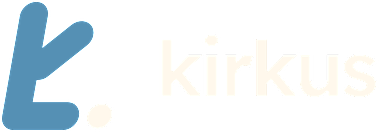
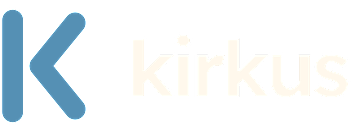
New mark: a geometric K (stem + chevron), no dot
Replaces the hand-drawn K everywhere: GRUB, boot splash, login screen, Plasma
splash, live USB, app/launcher icon, wallpaper and fastfetch. The mark is
now an SVG with two layers; the chevron pulses on the boot and Plasma
splashes where the dot used to breathe.

Claude-Session: https://claude.ai/code/session_01L5eKN7UTBKTLGMDgDJHDBu

Changed region(s): [[0.0, 0.0, 0.2486, 1.0]]

diff --git a/overlay/installed/usr/share/plasma/look-and-feel/org.kirkus.splash/contents/splash/Splash.qml b/overlay/installed/usr/share/plasma/look-and-feel/org.kirkus.splash/contents/splash/Splash.qml
@@ -1,7 +1,7 @@
 // kirkus startup splash (shown after login while Plasma loads).
 //
 // Same as the boot splash: the kirkus lockup at exactly the spot every other screen draws it, so when
-// you log in the password field simply disappears, and the cream dot breathes until the desktop
+// you log in the password field simply disappears, and the K's chevron pulses until the desktop
 // arrives.
 import QtQuick
 
@@ -14,20 +14,20 @@ Rectangle {
 
     Image {
         id: lockup
-        source: "images/lockup-nodot.png"
+        source: "images/lockup-base.png"
         x: Math.floor(root.width / 2 - implicitWidth / 2)
         y: Math.floor(root.height / 2 - implicitHeight / 2) - 50
     }
 
-    // the dot is its own layer, the same size and position as the lockup
+    // the chevron is its own layer, the same size and position as the lockup
     Image {
-        source: "images/dot.png"
+        source: "images/accent.png"
         x: lockup.x
         y: lockup.y
 
         SequentialAnimation on opacity {
             loops: Animation.Infinite
-            NumberAnimation { to: 0.3; duration: 1250; easing.type: Easing.InOutSine }
+            NumberAnimation { to: 0.65; duration: 1250; easing.type: Easing.InOutSine }
             NumberAnimation { to: 1.0; duration: 1250; easing.type: Easing.InOutSine }
         }
     }

diff --git a/branding/tools/make-lockup.py b/branding/tools/make-lockup.py
@@ -2,20 +2,23 @@
 """Build the kirkus lockup (mark + "kirkus" wordmark) and its screen-size layers.
 
 usage: make-lockup.py FONT.ttf BRANDING_DIR [--weight W] [--track EM] [--height PX] [--max-width PX]
-                      [--out DIR]
+                      [--gap PX] [--out DIR]
 
-Takes the mark (the K and its dot) from branding/build/mark-src.png and dot-src.png, sets "kirkus"
-in the given font and writes, to BRANDING_DIR/build (or --out):
-  lockup.png, lockup-nodot.png                      full size, 308px tall
-  screen-lockup.png, screen-lockup-nodot.png,       132px tall, what every screen draws
-  screen-dot.png                                    (dot layer is the same size as the lockup)
+Renders the mark from BRANDING_DIR/build/mark.svg (with rsvg-convert): its "base" group (the stem)
+and its "accent" group (the chevron) as separate layers, sets "kirkus" in the given font, and
+writes to BRANDING_DIR/build (or --out):
+  lockup.png, lockup-base.png                          full size, 308px tall
+  screen-lockup.png, screen-lockup-base.png,           132px tall, what every screen draws
+  screen-accent.png                                    (the accent layer is the same size as the
+                                                       lockup, so it lines up when drawn on top)
 
---weight   for variable fonts (default 680)
---track    letter spacing in em, negative is tighter (default -0.04)
---height   height of the word's ink, ascender to baseline (default 148, as the original "kirk")
+--weight     for variable fonts (default 680)
+--track      letter spacing in em, negative is tighter (default -0.04)
+--height     height of the word's ink, ascender to baseline (default 148)
 --max-width  the word is scaled down to fit this width if needed (default 640)
+--gap        space between the mark and the word (default 110)
 """
-import sys, os, argparse
+import argparse, os, re, subprocess, tempfile
 import numpy as np
 from PIL import Image, ImageDraw, ImageFont
 
@@ -25,25 +28,35 @@ ap.add_argument("--weight", type=float, default=680)
 ap.add_argument("--track", type=float, default=-0.04)
 ap.add_argument("--height", type=int, default=148)
 ap.add_argument("--max-width", type=int, default=640)
+ap.add_argument("--gap", type=int, default=110)
 ap.add_argument("--out")
 a = ap.parse_args()
-font_path, root = a.font, a.root
-b = os.path.join(root, "build")
+b = os.path.join(a.root, "build")
 out = a.out or b
 os.makedirs(out, exist_ok=True)
 CREAM = (0xff, 0xf8, 0xec)
 H, SCREEN_H = 308, 132                     # 308 * 3/7 = 132
-GAP_X = 376                                # where the wordmark starts (as in the original)
 
-mark = Image.open(os.path.join(b, "mark-src.png")).convert("RGBA")       # 330 x 308, no dot
-dot = Image.open(os.path.join(b, "dot-src.png")).convert("RGBA")
-dx, dy = (int(v) for v in open(os.path.join(b, "dot-offset.txt")).read().split())
+# ---- the mark's two layers, each rendered on its own at full size ----
+svg = open(os.path.join(b, "mark.svg")).read()
+def layer(keep):
+    hide = "accent" if keep == "base" else "base"
+    body = re.sub(r'(<g id="%s")' % hide, r'\1 display="none"', svg)
+    with tempfile.TemporaryDirectory() as t:
+        p = os.path.join(t, "m.svg"); open(p, "w").write(body)
+        subprocess.run(["rsvg-convert", "-h", str(H), p, "-o", p + ".png"], check=True)
+        return Image.open(p + ".png").convert("RGBA")
+base, accent = layer("base"), layer("accent")
+mark = base.copy(); mark.alpha_composite(accent)
+# trim the empty space left of the mark (keep 4px), so the lockup is centred on what you see
+x0 = max(int(np.nonzero(np.array(mark)[..., 3].max(axis=0) > 0)[0].min()) - 4, 0)
+base, accent, mark = (im.crop((x0, 0, im.width, H)) for im in (base, accent, mark))
+GAP_X = int(np.nonzero(np.array(mark)[..., 3].max(axis=0) > 20)[0].max()) + 1 + a.gap
 
-S = 4                                      # 4x supersampling
-
+# ---- wordmark coverage, 4x supersampled ----
+S = 4
 def ink(size):
-    """'kirkus' set at size (supersampled px); returns the cropped coverage array."""
-    f = ImageFont.truetype(font_path, int(size))
+    f = ImageFont.truetype(a.font, int(size))
     try:
         axes = f.get_variation_axes()
         f.set_variation_by_axes([min(max(a.weight, ax["minimum"]), ax["maximum"]) if i == 0
@@ -60,7 +73,6 @@ def ink(size):
     ys, xs = np.nonzero(c > 0)
     return c[ys.min():ys.max() + 1, xs.min():xs.max() + 1]
 
-# pick the size that gives the requested ink height, within the maximum width
 probe = ink(200 * S)
 scale = min(a.height * S / probe.shape[0], a.max_width * S / probe.shape[1])
 c = ink(200 * S * scale)
@@ -70,8 +82,7 @@ pad[:c.shape[0], :c.shape[1]] = c
 word = pad.reshape(th, S, tw, S).mean(axis=(1, 3)).round().astype(np.uint8)
 
 # centre the word's ink on the mark's ink, vertically
-ma = np.array(mark)[..., 3]
-mys = np.nonzero(ma.max(axis=1) > 20)[0]
+mys = np.nonzero(np.array(mark)[..., 3].max(axis=1) > 20)[0]
 top = int(round((mys.min() + mys.max()) / 2 - th / 2))
 
 # full width chosen so the 132px-tall version comes out an even number of pixels wide
@@ -82,33 +93,32 @@ while (sw * 7) % 3:
     sw += 2
 W = sw * 7 // 3
 
-def canvas(with_dot, with_word=True, with_mark=True):
+def canvas(with_base=True, with_accent=True, with_word=True):
     im = Image.new("RGBA", (W, H))
-    if with_mark:
-        im.alpha_composite(mark, (0, 0))
-    if with_dot:
-        im.alpha_composite(dot, (dx, dy))
+    if with_base:
+        im.alpha_composite(base, (0, 0))
+    if with_accent:
+        im.alpha_composite(accent, (0, 0))
     if with_word:
-        layer = Image.new("RGBA", (tw, th), CREAM + (0,))
-        layer.putalpha(Image.fromarray(word))
-        im.alpha_composite(layer, (GAP_X, top))
+        l = Image.new("RGBA", (tw, th), CREAM + (0,))
+        l.putalpha(Image.fromarray(word))
+        im.alpha_composite(l, (GAP_X, top))
     return im
 
 def shrink(im):
     # resize premultiplied so edges don't pick up dark fringes
-    a = np.array(im).astype(np.float64)
-    a[..., :3] *= a[..., 3:4] / 255
-    p = Image.fromarray(a.round().astype(np.uint8), "RGBA").resize((sw, SCREEN_H), Image.LANCZOS)
-    q = np.array(p).astype(np.float64)
+    p = np.array(im).astype(np.float64)
+    p[..., :3] *= p[..., 3:4] / 255
+    r = Image.fromarray(p.round().astype(np.uint8), "RGBA").resize((sw, SCREEN_H), Image.LANCZOS)
+    q = np.array(r).astype(np.float64)
     al = q[..., 3:4]
     q[..., :3] = np.where(al > 0, np.clip(q[..., :3] * 255 / np.maximum(al, 1), 0, 255), 0)
     return Image.fromarray(q.round().astype(np.uint8), "RGBA")
 
-full, nodot = canvas(True), canvas(False)
-dotonly = canvas(True, with_word=False, with_mark=False)
+full, still = canvas(), canvas(with_accent=False)
 full.save(os.path.join(out, "lockup.png"))
-nodot.save(os.path.join(out, "lockup-nodot.png"))
+still.save(os.path.join(out, "lockup-base.png"))
 shrink(full).save(os.path.join(out, "screen-lockup.png"))
-shrink(nodot).save(os.path.join(out, "screen-lockup-nodot.png"))
-shrink(dotonly).save(os.path.join(out, "screen-dot.png"))
+shrink(still).save(os.path.join(out, "screen-lockup-base.png"))
+shrink(canvas(with_base=False, with_word=False)).save(os.path.join(out, "screen-accent.png"))
 print(f"lockup {W}x{H}, screen {sw}x{SCREEN_H}, word {tw}x{th} at ({GAP_X},{top})")

diff --git a/branding/tools/make-fastfetch-logo.py b/branding/tools/make-fastfetch-logo.py
@@ -1,0 +1,26 @@
+#!/usr/bin/env python3
+"""Turns branding/build/mark.svg into fastfetch's text logo (half-block characters, colour $1).
+usage: make-fastfetch-logo.py BRANDING_DIR OUTPUT.txt [ROWS]"""
+import sys, subprocess, tempfile, os
+import numpy as np
+from PIL import Image
+root, outp = sys.argv[1], sys.argv[2]
+rows = int(sys.argv[3]) if len(sys.argv) > 3 else 18
+with tempfile.TemporaryDirectory() as t:
+    p = os.path.join(t, "m.png")
+    subprocess.run(["rsvg-convert", "-h", str(rows * 2 * 4), os.path.join(root, "build/mark.svg"), "-o", p], check=True)
+    a = np.array(Image.open(p).convert("RGBA"))[..., 3]
+# crop to the ink, then 4x downsample with a coverage threshold
+ys, xs = np.nonzero(a > 0); a = a[ys.min():ys.max() + 1, xs.min():xs.max() + 1]
+h, w = -(-a.shape[0] // 4) * 4, -(-a.shape[1] // 4) * 4
+pad = np.zeros((h, w)); pad[:a.shape[0], :a.shape[1]] = a
+px = pad.reshape(h // 4, 4, w // 4, 4).mean(axis=(1, 3)) > 110
+if px.shape[0] % 2: px = np.vstack([px, np.zeros((1, px.shape[1]), bool)])
+lines = []
+for r in range(0, px.shape[0], 2):
+    s = "".join({(1, 1): "█", (1, 0): "▀", (0, 1): "▄", (0, 0): " "}[(int(t), int(b))]
+                for t, b in zip(px[r], px[r + 1])).rstrip()
+    lead = len(s) - len(s.lstrip())
+    lines.append(" " * lead + "$1" + s.lstrip() if s.strip() else "")
+open(outp, "w").write("\n".join(lines) + "\n")
+print("\n".join(l.replace("$1", "") for l in lines))

diff --git a/README.md b/README.md
@@ -246,8 +246,8 @@ so keep that rule when editing them.
 
 ## Boot splash
 
-A Plymouth theme, `kirkus`, shows the logo on black while the system starts, with the cream dot
-breathing. Files: `/usr/share/plymouth/themes/kirkus/`.
+A Plymouth theme, `kirkus`, shows the logo on black while the system starts, with the K's
+chevron gently pulsing. Files: `/usr/share/plymouth/themes/kirkus/`.
 
 - **See boot messages:** press Esc while the splash is up.
 - **Change it:** edit `kirkus.script`, then `sudo plymouth-set-default-theme -R kirkus`.
